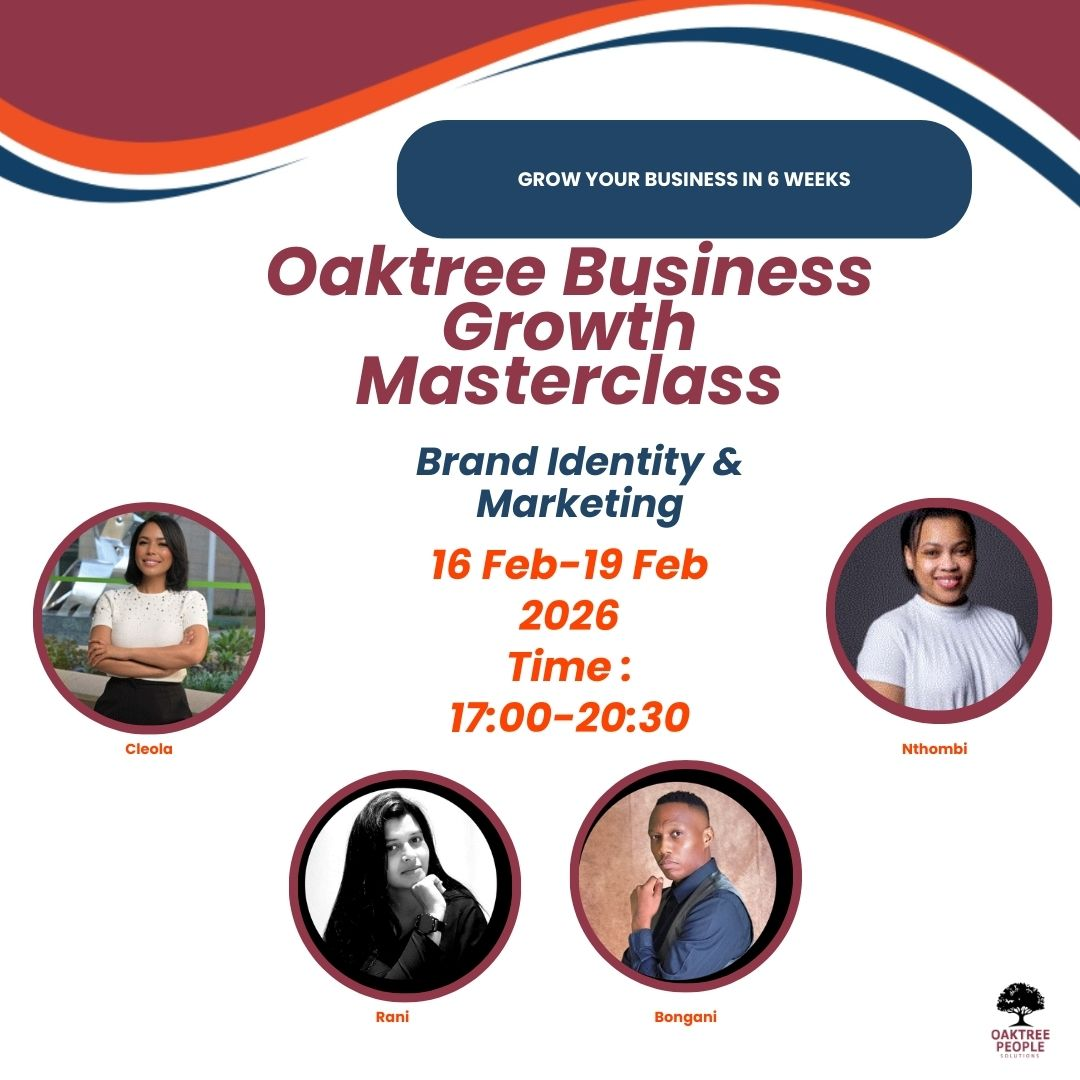
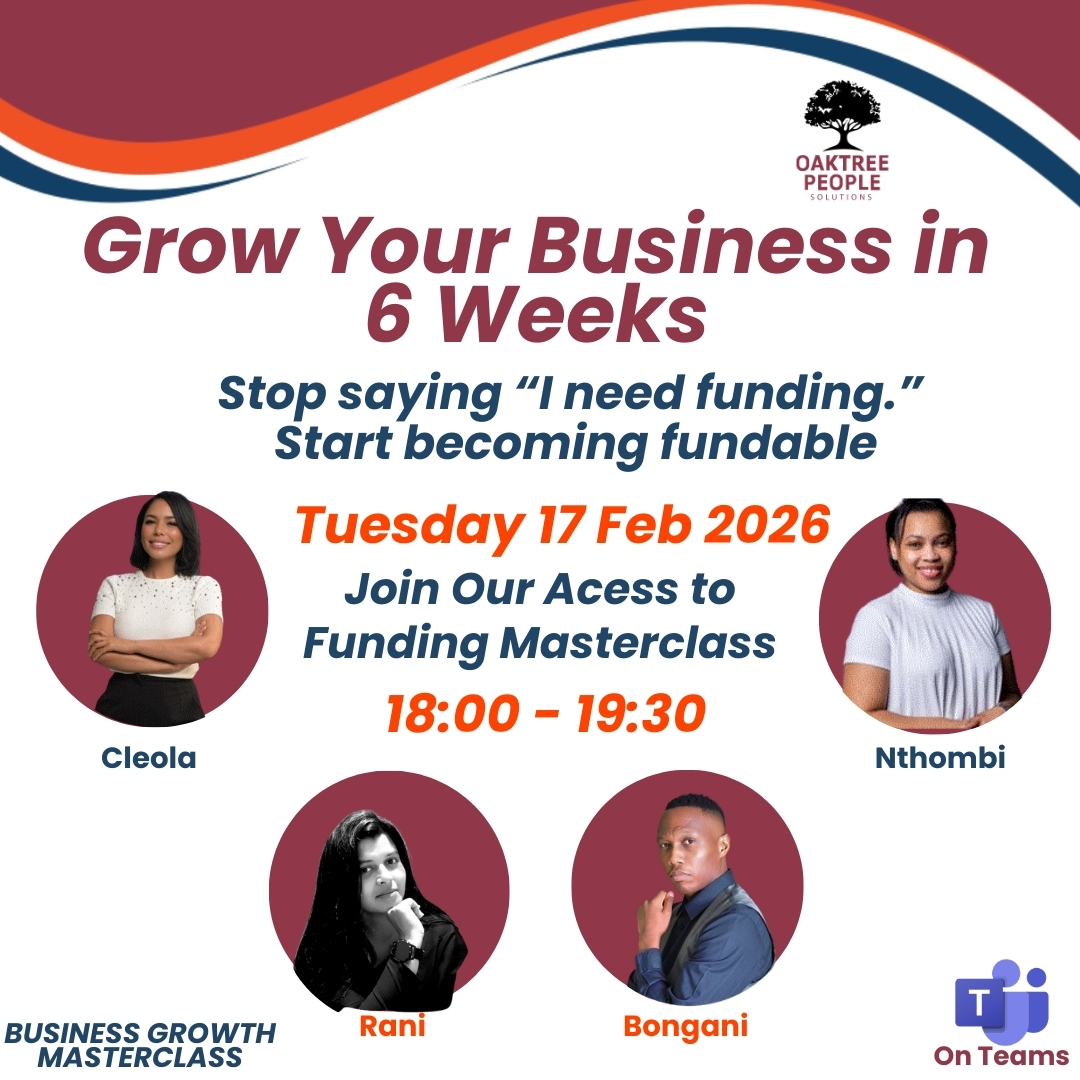
webinar landing updated

diff --git a/templates/webinar_landing.html b/templates/webinar_landing.html
@@ -80,7 +80,7 @@
 <div class="layout-grid">
     <div class="content-area">
         <div class="badge">OAKTREE PEOPLE SOLUTIONS</div>
-        <h1>Brand Identity & <br><span>Marketing</span></h1>
+        <h1>Join Our Access To <br><span>Funding Masterclass</span></h1>
     
         <a href="{{ url_for('webinar_form') }}" class="btn-premium">Secure Access</a>
     </div>

diff --git a/app.py b/app.py
@@ -635,6 +635,7 @@ def handle_survey(cohort, session_id):
                 
                 return render_template('survey_entry.html', cohort=cohort, session=session_id, 
                                      step=2, user=user_data, is_guest=is_guest)
+                                     
 
             elif step == '2':
                 email = request.form.get('verified_email', '').strip().lower()
